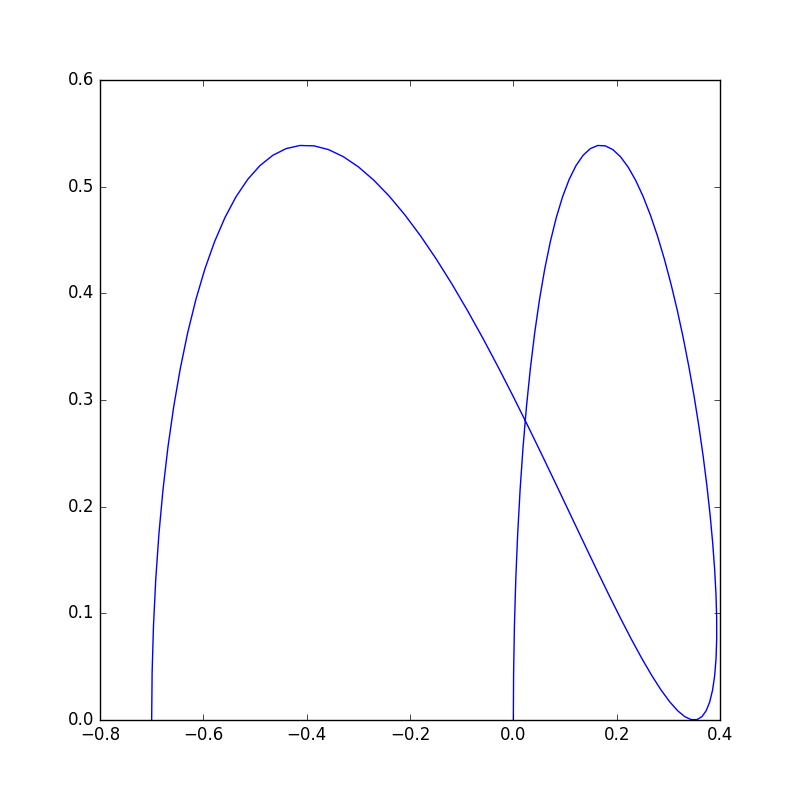
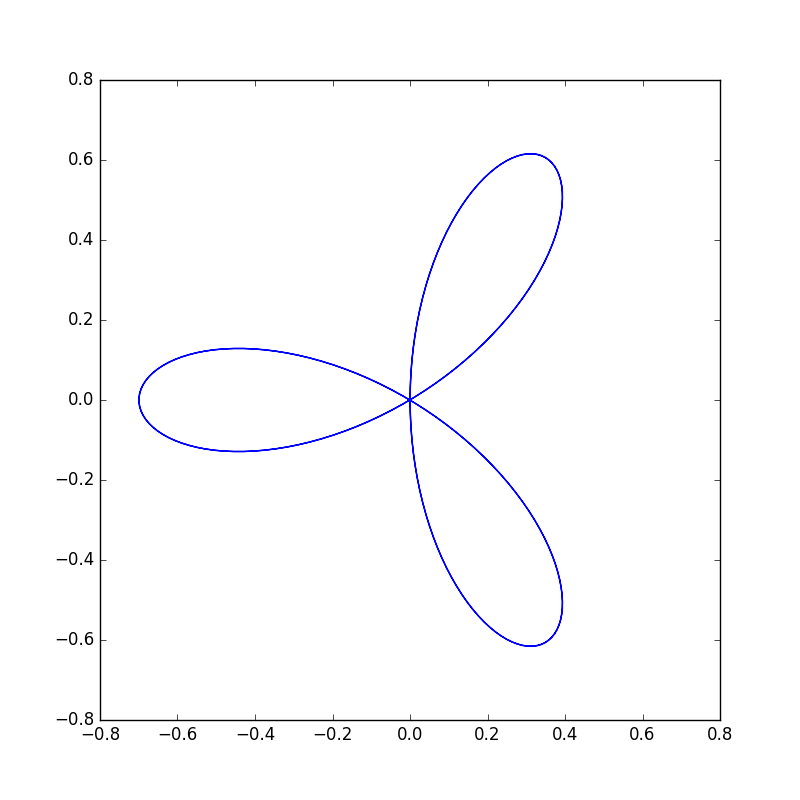
Fix some mistakes.

diff --git a/python/matplotlib/parametric_curve.py b/python/matplotlib/parametric_curve.py
@@ -6,10 +6,10 @@ import matplotlib.pyplot as plt
 
 # Build datas ###############
 
-t = np.linspace(0, np.pi, 100)
+t = np.linspace(0, 2. * np.pi, 200)
 
-x = 0.7 * np.sin(t / 2.) * np.sin(3. / 2. * t)
-y = 0.7 * np.cos(t) * np.sin(2. * t)
+x = 0.7 * np.sin(t) * np.sin(3. * t)
+y = 0.7 * np.cos(t) * np.sin(3. * t)
 
 # Plot data #################
 
@@ -17,6 +17,9 @@ fig = plt.figure(figsize=(8.0, 8.0))
 ax = fig.add_subplot(111)
 
 ax.plot(x, y)
+
+ax.set_xlim([-0.8, 0.8])
+ax.set_ylim([-0.8, 0.8])
 
 # Save file and plot ########
 
